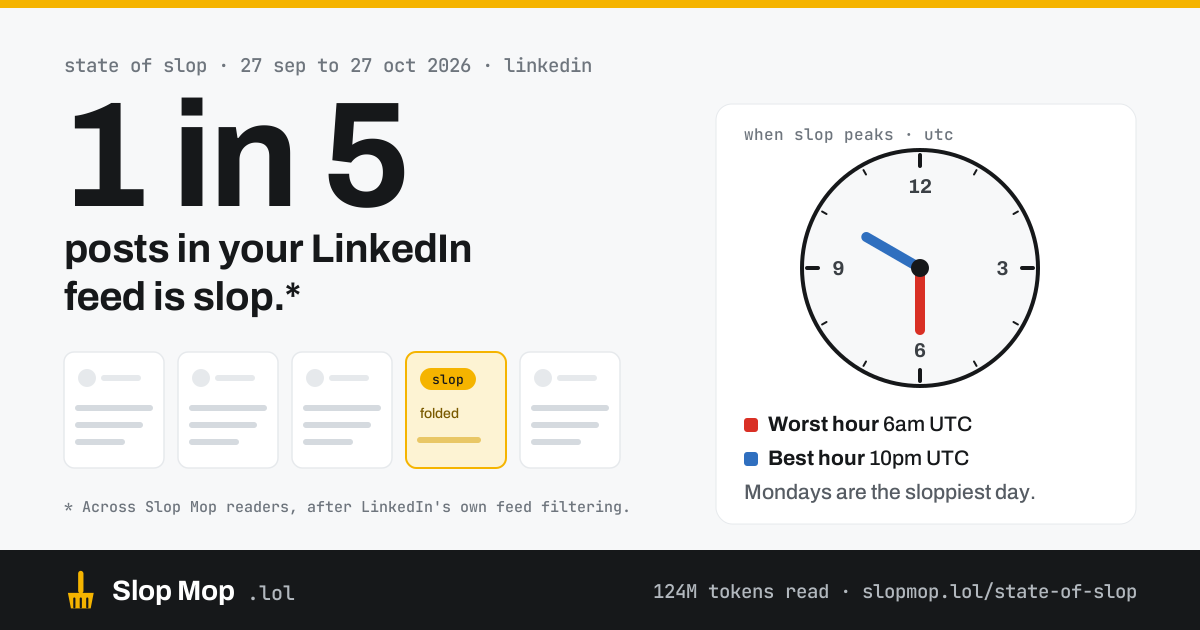
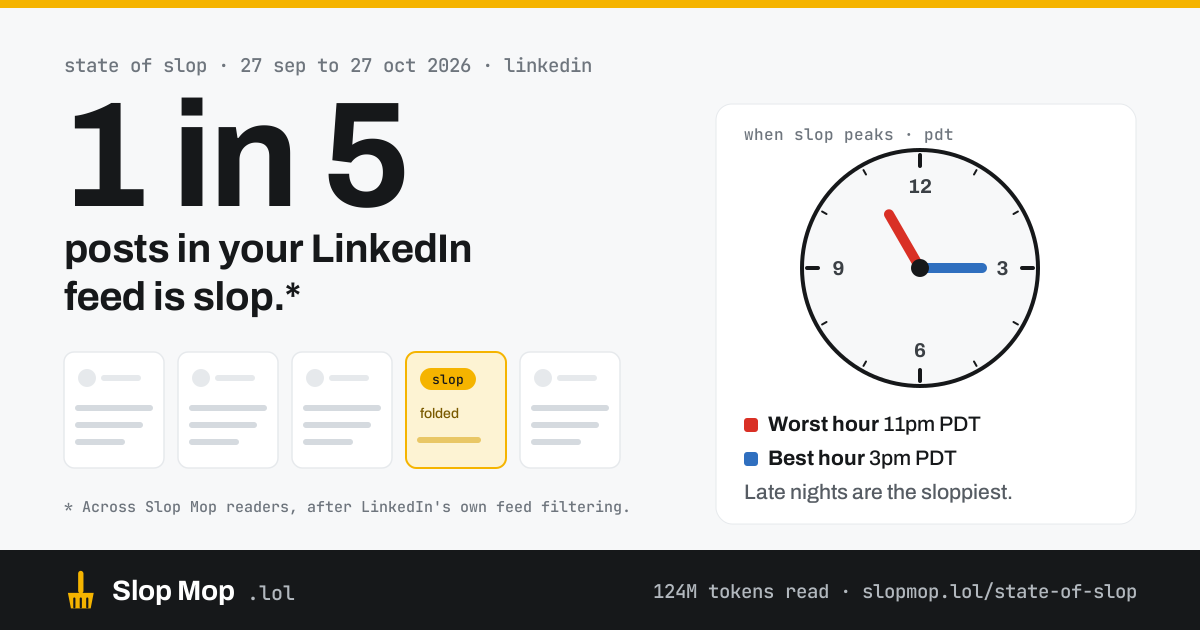
Show October report times in Pacific time
Hours shift from UTC to PDT (the whole window is daylight time). The weekday
breakdown is left out because the export groups it by UTC day.

Changed region(s): [[0.6167, 0.6635, 0.8633, 0.8143], [0.7092, 0.3317, 0.8325, 0.5429], [0.7708, 0.2111, 0.8017, 0.2413]]

diff --git a/state-of-slop/october-2026.html b/state-of-slop/october-2026.html
@@ -20,22 +20,22 @@
 </script>
 <script async src="https://www.googletagmanager.com/gtag/js?id=G-QLWD48WK07"></script>
 <title>State of Slop: October 2026 — Slop Mop</title>
-<meta name="description" content="27 September to 27 October 2026: one LinkedIn post in five was slop, even after LinkedIn&#x27;s own filtering. The signs that showed up most, with examples, and the days and hours slop peaked.">
+<meta name="description" content="27 September to 27 October 2026: one LinkedIn post in five was slop, even after LinkedIn&#x27;s own filtering. The signs that showed up most, with examples, and the hours slop peaked.">
 <link rel="canonical" href="https://slopmop.lol/state-of-slop/october-2026">
 <meta name="robots" content="index, follow, max-image-preview:large">
 <meta property="og:type" content="article">
 <meta property="og:site_name" content="Slop Mop">
 <meta property="og:url" content="https://slopmop.lol/state-of-slop/october-2026">
 <meta property="og:title" content="State of Slop: October 2026">
-<meta property="og:description" content="27 September to 27 October 2026: one LinkedIn post in five was slop, even after LinkedIn&#x27;s own filtering. The signs that showed up most, with examples, and the days and hours slop peaked.">
+<meta property="og:description" content="27 September to 27 October 2026: one LinkedIn post in five was slop, even after LinkedIn&#x27;s own filtering. The signs that showed up most, with examples, and the hours slop peaked.">
 <meta property="og:image" content="https://slopmop.lol/state-of-slop/october-2026.png">
 <meta property="og:image:width" content="1200">
 <meta property="og:image:height" content="630">
-<meta property="og:image:alt" content="State of Slop, 27 September to 27 October 2026. One in five posts in your LinkedIn feed is slop. Slop was worst at 6am UTC and lightest at 10pm UTC, and Monday was the sloppiest day.">
+<meta property="og:image:alt" content="State of Slop, 27 September to 27 October 2026. One in five posts in your LinkedIn feed is slop. Slop was worst at 11pm Pacific and lightest at 3pm Pacific, and late nights were the sloppiest.">
 <meta property="article:published_time" content="2026-10-28">
 <meta name="twitter:card" content="summary_large_image">
 <meta name="twitter:title" content="State of Slop: October 2026">
-<meta name="twitter:description" content="27 September to 27 October 2026: one LinkedIn post in five was slop, even after LinkedIn&#x27;s own filtering. The signs that showed up most, with examples, and the days and hours slop peaked.">
+<meta name="twitter:description" content="27 September to 27 October 2026: one LinkedIn post in five was slop, even after LinkedIn&#x27;s own filtering. The signs that showed up most, with examples, and the hours slop peaked.">
 <meta name="twitter:image" content="https://slopmop.lol/state-of-slop/october-2026.png">
 <meta name="author" content="Tom Frazier">
 <link rel="icon" href="../favicon.svg" type="image/svg+xml">
@@ -55,7 +55,7 @@
  "@id": "https://slopmop.lol/state-of-slop/october-2026#article",
  "url": "https://slopmop.lol/state-of-slop/october-2026",
  "headline": "State of Slop: October 2026: One LinkedIn post in five was slop",
- "description": "27 September to 27 October 2026: one LinkedIn post in five was slop, even after LinkedIn's own filtering. The signs that showed up most, with examples, and the days and hours slop peaked.",
+ "description": "27 September to 27 October 2026: one LinkedIn post in five was slop, even after LinkedIn's own filtering. The signs that showed up most, with examples, and the hours slop peaked.",
  "image": "https://slopmop.lol/state-of-slop/october-2026.png",
  "datePublished": "2026-10-28",
  "dateModified": "2026-10-28",
@@ -104,9 +104,9 @@
       <p class="lede">From 27 September to 27 October, Slop Mop read 124 million tokens of LinkedIn posts, after LinkedIn&#x27;s own feed filtering had done its work. One post in five was slop. Here are the signs it showed most, with examples, and when it peaked.</p>
       <p class="sos-byline mono">covers 27 September to 27 October 2026</p>
     </div>
-    <div class="ph-visual sos-hero"><img src="october-2026.png" width="1200" height="630" alt="State of Slop, 27 September to 27 October 2026. One in five posts in your LinkedIn feed is slop. Slop was worst at 6am UTC and lightest at 10pm UTC, and Monday was the sloppiest day."></div>
+    <div class="ph-visual sos-hero"><img src="october-2026.png" width="1200" height="630" alt="State of Slop, 27 September to 27 October 2026. One in five posts in your LinkedIn feed is slop. Slop was worst at 11pm Pacific and lightest at 3pm Pacific, and late nights were the sloppiest."></div>
   </div>
-  <div class="wrap"><div class="glance"><div class="glance-tile"><span class="mono">slop</span><b>1 in 5</b><span>posts that reached the feed were slop</span></div><div class="glance-tile"><span class="mono">top sign</span><b>Empty praise</b><span>the strongest sign in 34% of posts</span></div><div class="glance-tile"><span class="mono">worst day</span><b>Monday</b><span>21% slop, against 16% on Sunday</span></div><div class="glance-tile"><span class="mono">text read</span><b>124M tokens<span class="sos-info"><button type="button" class="sos-info-btn" aria-label="What is a token?" aria-expanded="false" aria-controls="sos-tip-2">i</button><span class="sos-tip" id="sos-tip-2" role="tooltip"><b>What's a token?</b> A token is a small chunk of text, about three quarters of an English word. Language tools count text in tokens. 124M tokens is roughly 93 million words, or about 1,000 novels.<button type="button" class="sos-tip-x" aria-label="Close">&times;</button></span></span></b><span>of LinkedIn posts</span></div></div></div>
+  <div class="wrap"><div class="glance"><div class="glance-tile"><span class="mono">slop</span><b>1 in 5</b><span>posts that reached the feed were slop</span></div><div class="glance-tile"><span class="mono">top sign</span><b>Empty praise</b><span>the strongest sign in 34% of posts</span></div><div class="glance-tile"><span class="mono">worst hour</span><b>11pm PDT</b><span>24% slop, against 15% at 3pm</span></div><div class="glance-tile"><span class="mono">text read</span><b>124M tokens<span class="sos-info"><button type="button" class="sos-info-btn" aria-label="What is a token?" aria-expanded="false" aria-controls="sos-tip-2">i</button><span class="sos-tip" id="sos-tip-2" role="tooltip"><b>What's a token?</b> A token is a small chunk of text, about three quarters of an English word. Language tools count text in tokens. 124M tokens is roughly 93 million words, or about 1,000 novels.<button type="button" class="sos-tip-x" aria-label="Close">&times;</button></span></span></b><span>of LinkedIn posts</span></div></div></div>
 </section>
 <div class="page-body">
   <div class="wrap page-grid">
@@ -134,8 +134,8 @@
 </section>
 <section id="when">
 <h2>When slop peaks</h2>
-<p>Slop peaks on Monday, when 21% of what people scrolled past was slop, and is lightest on Sunday, at 16%. By hour, the worst stretch is 06:00 UTC at 24%, and the cleanest is 22:00 UTC at 15%.</p>
-<p>These are shares of what people actually scrolled past, so a post seen twice counts twice.</p><h3>By day of the week</h3><ol class="sos-rows" aria-label="Share of what people scrolled past that was slop, by day of the week"><li class="sos-row sos-row-dow sos-low"><span class="sos-row-l">Sunday</span><span class="sos-row-bar"><i style="width:77.8%"></i></span><span class="sos-row-v mono">16%</span></li><li class="sos-row sos-row-dow sos-lead"><span class="sos-row-l">Monday</span><span class="sos-row-bar"><i style="width:100.0%"></i></span><span class="sos-row-v mono">21%</span></li><li class="sos-row sos-row-dow"><span class="sos-row-l">Tuesday</span><span class="sos-row-bar"><i style="width:93.7%"></i></span><span class="sos-row-v mono">19%</span></li><li class="sos-row sos-row-dow"><span class="sos-row-l">Wednesday</span><span class="sos-row-bar"><i style="width:93.7%"></i></span><span class="sos-row-v mono">19%</span></li><li class="sos-row sos-row-dow"><span class="sos-row-l">Thursday</span><span class="sos-row-bar"><i style="width:95.7%"></i></span><span class="sos-row-v mono">20%</span></li><li class="sos-row sos-row-dow"><span class="sos-row-l">Friday</span><span class="sos-row-bar"><i style="width:89.9%"></i></span><span class="sos-row-v mono">19%</span></li><li class="sos-row sos-row-dow"><span class="sos-row-l">Saturday</span><span class="sos-row-bar"><i style="width:93.7%"></i></span><span class="sos-row-v mono">19%</span></li></ol><h3>By hour (UTC)</h3><div class="sos-cols" role="img" aria-label="Share of what people scrolled past that was slop, by hour UTC"><div class="sos-col" title="00:00: 18% slop"><i style="height:74.2%"><s style="height:25.8%"></s></i><span class="mono">00:00</span></div><div class="sos-col" title="01:00: 15% slop"><i style="height:64.2%"><s style="height:33.8%"></s></i><span class="mono"></span></div><div class="sos-col" title="02:00: 18% slop"><i style="height:75.8%"><s style="height:30.2%"></s></i><span class="mono"></span></div><div class="sos-col" title="03:00: 15% slop"><i style="height:64.2%"><s style="height:31.2%"></s></i><span class="mono">03:00</span></div><div class="sos-col" title="04:00: 16% slop"><i style="height:67.5%"><s style="height:24.1%"></s></i><span class="mono"></span></div><div class="sos-col" title="05:00: 22% slop"><i style="height:90.4%"><s style="height:38.2%"></s></i><span class="mono"></span></div><div class="sos-col" title="06:00: 24% slop"><i style="height:100.0%"><s style="height:36.7%"></s></i><span class="mono">06:00</span></div><div class="sos-col" title="07:00: 22% slop"><i style="height:92.5%"><s style="height:38.3%"></s></i><span class="mono"></span></div><div class="sos-col" title="08:00: 22% slop"><i style="height:90.8%"><s style="height:36.7%"></s></i><span class="mono"></span></div><div class="sos-col" title="09:00: 19% slop"><i style="height:80.0%"><s style="height:35.9%"></s></i><span class="mono">09:00</span></div><div class="sos-col" title="10:00: 21% slop"><i style="height:86.2%"><s style="height:33.3%"></s></i><span class="mono"></span></div><div class="sos-col" title="11:00: 21% slop"><i style="height:88.3%"><s style="height:31.6%"></s></i><span class="mono"></span></div><div class="sos-col" title="12:00: 20% slop"><i style="height:83.3%"><s style="height:35.5%"></s></i><span class="mono">12:00</span></div><div class="sos-col" title="13:00: 19% slop"><i style="height:80.4%"><s style="height:36.3%"></s></i><span class="mono"></span></div><div class="sos-col" title="14:00: 19% slop"><i style="height:79.6%"><s style="height:30.4%"></s></i><span class="mono"></span></div><div class="sos-col" title="15:00: 19% slop"><i style="height:77.5%"><s style="height:30.1%"></s></i><span class="mono">15:00</span></div><div class="sos-col" title="16:00: 20% slop"><i style="height:82.9%"><s style="height:34.2%"></s></i><span class="mono"></span></div><div class="sos-col" title="17:00: 22% slop"><i style="height:90.0%"><s style="height:33.8%"></s></i><span class="mono"></span></div><div class="sos-col" title="18:00: 18% slop"><i style="height:76.2%"><s style="height:37.2%"></s></i><span class="mono">18:00</span></div><div class="sos-col" title="19:00: 18% slop"><i style="height:73.8%"><s style="height:27.1%"></s></i><span class="mono"></span></div><div class="sos-col" title="20:00: 17% slop"><i style="height:71.3%"><s style="height:29.2%"></s></i><span class="mono"></span></div><div class="sos-col" title="21:00: 16% slop"><i style="height:66.7%"><s style="height:31.9%"></s></i><span class="mono">21:00</span></div><div class="sos-col" title="22:00: 15% slop"><i style="height:62.9%"><s style="height:19.9%"></s></i><span class="mono"></span></div><div class="sos-col" title="23:00: 16% slop"><i style="height:65.0%"><s style="height:28.8%"></s></i><span class="mono"></span></div></div><p class="sos-note"><i class="sos-key sos-possibly"></i> slop share &nbsp; <i class="sos-key sos-likely"></i> the likely-slop part of it. Faded columns had too little reading to call.</p>
+<p>Slop peaks late at night, Pacific time. Every hour from 10pm to 2am PDT ran at 22% slop or more, and 11pm was the worst at 24%. The cleanest hour was 3pm, at 15%.</p>
+<p>All times are Pacific Daylight Time. These are shares of what people actually scrolled past, so a post seen twice counts twice.</p><h3>By hour (PDT)</h3><div class="sos-cols" role="img" aria-label="Share of what people scrolled past that was slop, by hour PDT"><div class="sos-col" title="12am: 22% slop"><i style="height:92.5%"><s style="height:38.3%"></s></i><span class="mono">12am</span></div><div class="sos-col" title="1am: 22% slop"><i style="height:90.8%"><s style="height:36.7%"></s></i><span class="mono"></span></div><div class="sos-col" title="2am: 19% slop"><i style="height:80.0%"><s style="height:35.9%"></s></i><span class="mono"></span></div><div class="sos-col" title="3am: 21% slop"><i style="height:86.2%"><s style="height:33.3%"></s></i><span class="mono">3am</span></div><div class="sos-col" title="4am: 21% slop"><i style="height:88.3%"><s style="height:31.6%"></s></i><span class="mono"></span></div><div class="sos-col" title="5am: 20% slop"><i style="height:83.3%"><s style="height:35.5%"></s></i><span class="mono"></span></div><div class="sos-col" title="6am: 19% slop"><i style="height:80.4%"><s style="height:36.3%"></s></i><span class="mono">6am</span></div><div class="sos-col" title="7am: 19% slop"><i style="height:79.6%"><s style="height:30.4%"></s></i><span class="mono"></span></div><div class="sos-col" title="8am: 19% slop"><i style="height:77.5%"><s style="height:30.1%"></s></i><span class="mono"></span></div><div class="sos-col" title="9am: 20% slop"><i style="height:82.9%"><s style="height:34.2%"></s></i><span class="mono">9am</span></div><div class="sos-col" title="10am: 22% slop"><i style="height:90.0%"><s style="height:33.8%"></s></i><span class="mono"></span></div><div class="sos-col" title="11am: 18% slop"><i style="height:76.2%"><s style="height:37.2%"></s></i><span class="mono"></span></div><div class="sos-col" title="12pm: 18% slop"><i style="height:73.8%"><s style="height:27.1%"></s></i><span class="mono">12pm</span></div><div class="sos-col" title="1pm: 17% slop"><i style="height:71.3%"><s style="height:29.2%"></s></i><span class="mono"></span></div><div class="sos-col" title="2pm: 16% slop"><i style="height:66.7%"><s style="height:31.9%"></s></i><span class="mono"></span></div><div class="sos-col" title="3pm: 15% slop"><i style="height:62.9%"><s style="height:19.9%"></s></i><span class="mono">3pm</span></div><div class="sos-col" title="4pm: 16% slop"><i style="height:65.0%"><s style="height:28.8%"></s></i><span class="mono"></span></div><div class="sos-col" title="5pm: 18% slop"><i style="height:74.2%"><s style="height:25.8%"></s></i><span class="mono"></span></div><div class="sos-col" title="6pm: 15% slop"><i style="height:64.2%"><s style="height:33.8%"></s></i><span class="mono">6pm</span></div><div class="sos-col" title="7pm: 18% slop"><i style="height:75.8%"><s style="height:30.2%"></s></i><span class="mono"></span></div><div class="sos-col" title="8pm: 15% slop"><i style="height:64.2%"><s style="height:31.2%"></s></i><span class="mono"></span></div><div class="sos-col" title="9pm: 16% slop"><i style="height:67.5%"><s style="height:24.1%"></s></i><span class="mono">9pm</span></div><div class="sos-col" title="10pm: 22% slop"><i style="height:90.4%"><s style="height:38.2%"></s></i><span class="mono"></span></div><div class="sos-col" title="11pm: 24% slop"><i style="height:100.0%"><s style="height:36.7%"></s></i><span class="mono"></span></div></div><p class="sos-note"><i class="sos-key sos-possibly"></i> slop share &nbsp; <i class="sos-key sos-likely"></i> the likely-slop part of it. Faded columns had too little reading to call.</p>
 </section>
 <section id="readers">
 <h2>Calibrated, and you get the last word</h2>

diff --git a/.github/scripts/state_of_slop/build.py b/.github/scripts/state_of_slop/build.py
@@ -267,7 +267,7 @@ def report(d, c, head, header, footer, months):
         if tm.get("by_day_of_week"):
             body += "<h3>By day of the week</h3>" + dow_rows(tm["by_day_of_week"])
         if tm.get("by_hour"):
-            body += "<h3>By hour (%s)</h3>" % tm["tz"] + column_chart(tm["by_hour"], 3, "Share of what people scrolled past that was slop, by hour " + tm["tz"], lambda s: s + ":00")
+            body += "<h3>By hour (%s)</h3>" % tm["tz"] + column_chart(tm["by_hour"], 3, "Share of what people scrolled past that was slop, by hour " + tm["tz"], hour12)
             body += ('<p class="sos-note"><i class="sos-key sos-possibly"></i> slop share &nbsp; <i class="sos-key sos-likely"></i> the likely-slop part of it. '
                      'Faded columns had too little reading to call.</p>')
         add("when", "When slop peaks", body)
@@ -320,6 +320,10 @@ def report(d, c, head, header, footer, months):
         days = [x for x in tm["by_day_of_week"] if not x.get("low_sample")]
         hi, lo = max(days, key=lambda x: x["slop_percent"]), min(days, key=lambda x: x["slop_percent"])
         tiles.append(("worst day", hi["label"], "%s slop, against %s on %s" % (pct(hi["slop_percent"]), pct(lo["slop_percent"]), lo["label"]), ""))
+    elif tm.get("by_hour"):
+        hours = [x for x in tm["by_hour"] if not x.get("low_sample")]
+        hi, lo = max(hours, key=lambda x: x["slop_percent"]), min(hours, key=lambda x: x["slop_percent"])
+        tiles.append(("worst hour", "%s %s" % (hour12(hi["label"]), e(tm["tz"])), "%s slop, against %s at %s" % (pct(hi["slop_percent"]), pct(lo["slop_percent"]), hour12(lo["label"])), ""))
     tiles.append(("text read", "%s tokens" % tokens_short(tot["tokens_read"]), "of %s posts" % e(src_label), token_tip(tot["tokens_read"])))
     glance = "".join('<div class="glance-tile"><span class="mono">%s</span><b>%s%s</b><span>%s</span></div>' % (a, b, tip, cc) for a, b, cc, tip in tiles)
 
@@ -514,6 +518,8 @@ def hero_svg(d, c):
         if days:
             dh = max(days, key=lambda x: x["slop_percent"])
             out.append('<text x="744" y="499" font-family="Archivo" font-size="21" fill="#565C63">%ss are the sloppiest day.</text>' % e(dh["label"]))
+        elif sh.get("clock_note"):
+            out.append('<text x="744" y="499" font-family="Archivo" font-size="21" fill="#565C63">%s</text>' % e(sh["clock_note"]))
 
     out.append('<rect y="550" width="1200" height="80" fill="#16181A"/>')
     out.append(MOP.format(x=58, y=567, k=1.9, c="#F5B400", bg="#16181A"))
